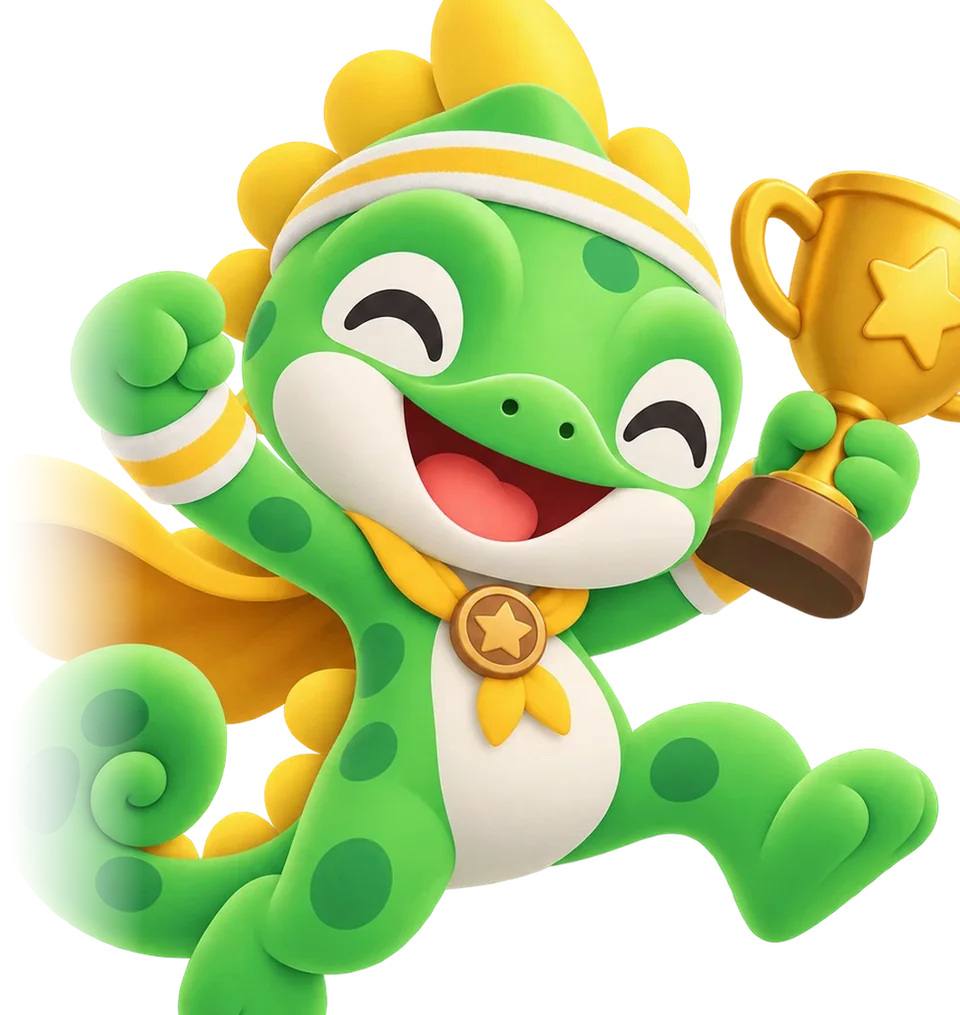
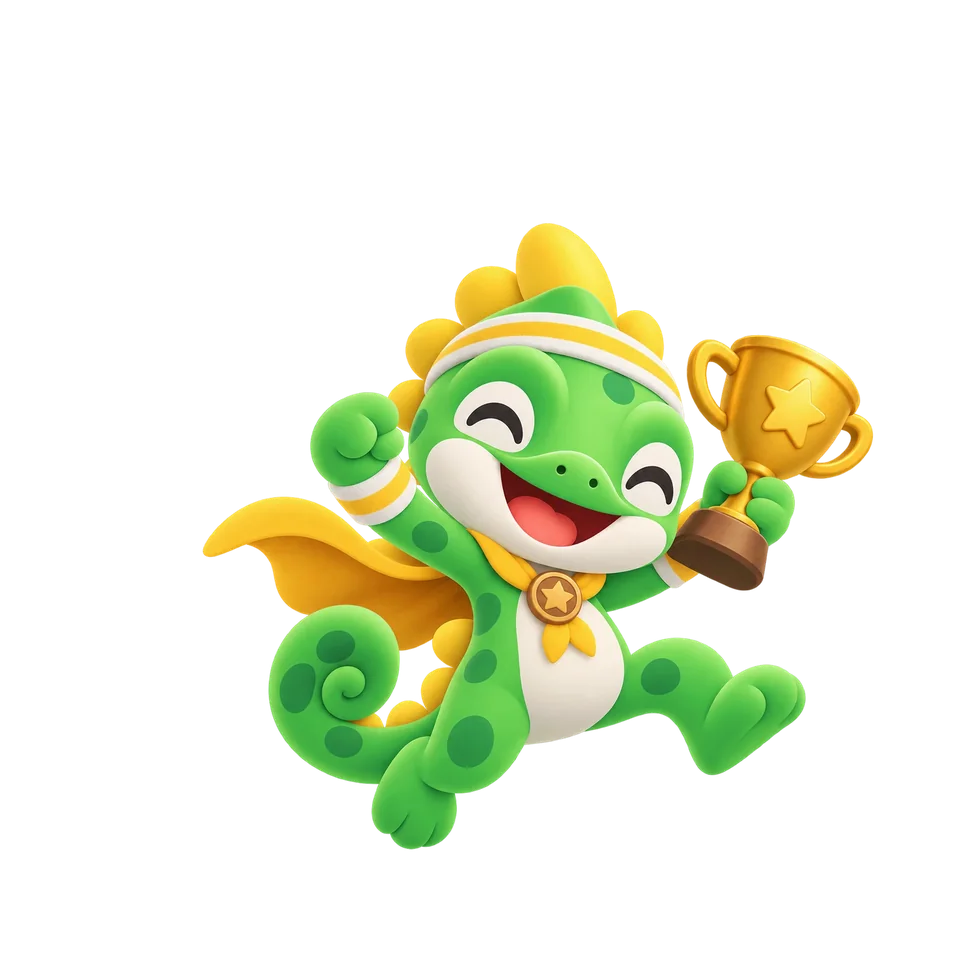
Rang-Maskottchen nach Markierungen: nichts mehr abgeschnitten oder ausgeblendet
- Bilder mit 200 px Luft oben und 250 px links (1389 x 1404): Kamm und Krone
  enden nicht mehr am Bildrand, keine Ausblendung links
- Rahmen reicht 80 px ueber die Karte (die Lupe ist auf der Wallet weg) und
  rechts etwas ueber den Rand: Pokal, Zepter und Hand duerfen herausragen
- Jede Figur so gross wie moeglich, ohne Text und Knoepfe zu ueberdecken;
  Strahlen folgen dem Kopf je Rang
- Universelles Modell fuer die neue Leinwand als eigene Datei (standard),
  die Einfuehrung nutzt weiter die bisherige

diff --git a/public/look.css b/public/look.css
@@ -224,7 +224,8 @@ body.marken-modus #view-wallet { --wk-akzent: var(--marke-k1); }
 /* Das Maskottchen ragt oben ueber die Karte hinaus. Der Rahmen, der beim
    Einklappen beschneidet (.kopf-geld-inner, overflow: hidden), beginnt deshalb
    44px hoeher; die negative Marge hebt das im Layout wieder auf. */
-#kopf-vorne { padding: 44px 14px 26px; margin: -44px -14px -26px; }
+/* Oben 80 px Luft fuer Kamm und Krone (die Lupe ist auf der Wallet weg) */
+#kopf-vorne { padding: 80px 14px 26px; margin: -80px -14px -26px; }
 /* Eingeklappt (Karten & Coupons) bleibt die Polsterung stehen — unsichtbar und
    nicht antippbar, damit nichts darunter blockiert wird */
 #wallet-kopf-geld.zu { pointer-events: none; }
@@ -255,8 +256,10 @@ body.marken-modus #view-wallet { --wk-akzent: var(--marke-k1); }
    Ecken. Unten laeuft die Figur weich aus, statt hart abzubrechen. */
 .wk-sprite-rahmen {
   position: absolute; z-index: 1; pointer-events: none;
-  top: -44px; bottom: 0; left: 0; right: 0;
-  overflow: hidden; border-radius: 0 0 var(--wk-radius) var(--wk-radius);
+  /* oben frei (Kopf ragt heraus), rechts darf etwas ueber den Rand ragen
+     (Pokal, Zepter), unten schneidet die Kartenkante */
+  top: -80px; bottom: 0; left: 0; right: -14px;
+  overflow: hidden; border-radius: 0 0 0 var(--wk-radius);
   -webkit-mask-image: linear-gradient(to bottom, #000 calc(100% - 30px), rgba(0, 0, 0, .35) calc(100% - 6px), rgba(0, 0, 0, .15) 100%);
           mask-image: linear-gradient(to bottom, #000 calc(100% - 30px), rgba(0, 0, 0, .35) calc(100% - 6px), rgba(0, 0, 0, .15) 100%);
 }
@@ -265,9 +268,12 @@ body.marken-modus #view-wallet { --wk-akzent: var(--marke-k1); }
    daneben neben dem Betrag. Unten schneidet die Karte — nur der Oberkoerper
    ist zu sehen. Eigene Modelle je Rang: WALLET_MASKOTTCHEN in app.js. */
 .wk-glas { --sb: var(--sprite-breite, clamp(232px, 62.5vw, 256px)); }
+/* Bild: 1389 x 1404 — die alte Leinwand (1139 x 1204) plus 250 px links und
+   200 px oben, damit nichts am Bildrand endet. Lage je Rang steckt im Bild. */
 .wk-sprite {
-  position: absolute; top: 8px; left: calc(100% - 6px - var(--sb) * .8341);
-  width: var(--sb); height: auto;
+  position: absolute; top: calc(80px - 36px - var(--sb) * .1756);
+  left: calc(100% - 14px - 6px - var(--sb) * 1.0536);
+  width: calc(var(--sb) * 1.2195); height: auto;
   filter: drop-shadow(0 6px 10px rgba(0, 0, 0, .16));
   transform-origin: 55% 100%;
 }
@@ -281,7 +287,7 @@ body.marken-modus #view-wallet { --wk-akzent: var(--marke-k1); }
 }
 .wk-licht::before {
   content: ""; position: absolute;
-  left: calc(100% - 6px - var(--sb) * .268); top: calc(var(--sb) * .369 - 36px);
+  left: calc(100% - 6px - var(--sb) * var(--licht-x, .268)); top: calc(var(--sb) * var(--licht-y, .369) - 36px);
   width: calc(var(--sb) * .98); aspect-ratio: 1;
   transform: translate(-50%, -50%);
   background: repeating-conic-gradient(from 4deg,
@@ -294,7 +300,7 @@ body.marken-modus #view-wallet { --wk-akzent: var(--marke-k1); }
 @keyframes wkStrahlen { to { transform: translate(-50%, -50%) rotate(360deg); } }
 /* Funken wie im Logo: gold, klein, blitzen versetzt auf */
 .wk-funken {
-  position: absolute; top: 8px; left: calc(100% - 6px - var(--sb) * .8341);
+  position: absolute; top: 44px; left: calc(100% - 14px - 6px - var(--sb) * .8341);
   width: var(--sb); aspect-ratio: 1139 / 1204; pointer-events: none;
 }
 .wk-f {

diff --git a/public/app.js b/public/app.js
@@ -8996,25 +8996,28 @@ function voucherCardHtml(v, { mehr = false } = {}) {
 //   sammler: '/brand/kumulio-maskottchen-sammler',
 //   (profi, champion, meister, legende, mythos)
 const WALLET_MASKOTTCHEN = {
-  standard: '/brand/kumulio-maskottchen-wallet',
-  // Modelle des Nutzers je Rang (Runde 119), an den Augen auf die Lage des
-  // universellen Modells ausgerichtet — Strahlen und Funken passen so zu allen
-  scout: '/brand/kumulio-maskottchen-scout',
-  sammler: '/brand/kumulio-maskottchen-sammler',
-  profi: '/brand/kumulio-maskottchen-profi',
-  champion: '/brand/kumulio-maskottchen-champion',
-  meister: '/brand/kumulio-maskottchen-meister',
-  legende: '/brand/kumulio-maskottchen-legende',
-  mythos: '/brand/kumulio-maskottchen-mythos',
+  standard: { basis: '/brand/kumulio-maskottchen-standard', licht: [.268, .369] },
+  // Modelle des Nutzers je Rang. Lage und Groesse stecken im Bild (1389 x 1404,
+  // siehe look.css .wk-sprite); licht = Mitte der Strahlen hinter dem Kopf
+  scout: { basis: '/brand/kumulio-maskottchen-scout', licht: [0.2915, 0.3775] },
+  sammler: { basis: '/brand/kumulio-maskottchen-sammler', licht: [0.2836, 0.3775] },
+  profi: { basis: '/brand/kumulio-maskottchen-profi', licht: [0.2959, 0.3775] },
+  champion: { basis: '/brand/kumulio-maskottchen-champion', licht: [0.353, 0.3775] },
+  meister: { basis: '/brand/kumulio-maskottchen-meister', licht: [0.2186, 0.3775] },
+  legende: { basis: '/brand/kumulio-maskottchen-legende', licht: [0.2248, 0.3775] },
+  mythos: { basis: '/brand/kumulio-maskottchen-mythos', licht: [0.3117, 0.3775] },
 };
 function setzeWalletMaskottchen(slug) {
   const img = $('.wk-sprite');
   if (!img) return;
-  const basis = WALLET_MASKOTTCHEN[slug] || WALLET_MASKOTTCHEN.standard;
-  if (img.dataset.basis === basis) return;
-  img.dataset.basis = basis;
-  img.srcset = `${basis}-480.webp 480w, ${basis}-960.webp 960w`;
-  img.src = `${basis}-480.webp`;
+  const e = WALLET_MASKOTTCHEN[slug] || WALLET_MASKOTTCHEN.standard;
+  const glas = img.closest('.wk-glas');
+  glas?.style.setProperty('--licht-x', e.licht[0]);
+  glas?.style.setProperty('--licht-y', e.licht[1]);
+  if (img.dataset.basis === e.basis) return;
+  img.dataset.basis = e.basis;
+  img.srcset = `${e.basis}-480.webp 480w, ${e.basis}-960.webp 960w`;
+  img.src = `${e.basis}-480.webp`;
 }
 
 // "…" an der Karte: Code/PIN kopieren, Abbuchen, Verschenken, Details — der

diff --git a/public/index.html b/public/index.html
@@ -442,7 +442,7 @@
             <div class="wk-glas">
             <span class="wk-licht" aria-hidden="true"></span>
             <span class="wk-titel">Deine Wallet</span>
-            <span class="wk-sprite-rahmen" aria-hidden="true"><img class="wk-sprite" src="/brand/kumulio-maskottchen-wallet-480.webp" srcset="/brand/kumulio-maskottchen-wallet-480.webp 480w, /brand/kumulio-maskottchen-wallet-960.webp 960w" sizes="256px" width="242" height="256" data-basis="/brand/kumulio-maskottchen-wallet" alt="" decoding="async" draggable="false"><span class="wk-funken"><svg class="wk-f wk-f1" viewBox="-1.2 -1.2 2.4 2.4"><path d="M0-1Q.13-.13 1 0Q.13 .13 0 1Q-.13 .13-1 0Q-.13-.13 0-1Z"/></svg><svg class="wk-f wk-f2" viewBox="-1.2 -1.2 2.4 2.4"><path d="M0-1Q.13-.13 1 0Q.13 .13 0 1Q-.13 .13-1 0Q-.13-.13 0-1Z"/></svg><svg class="wk-f wk-f3" viewBox="-1.2 -1.2 2.4 2.4"><path d="M0-1Q.13-.13 1 0Q.13 .13 0 1Q-.13 .13-1 0Q-.13-.13 0-1Z"/></svg></span></span>
+            <span class="wk-sprite-rahmen" aria-hidden="true"><img class="wk-sprite" src="/brand/kumulio-maskottchen-standard-480.webp" srcset="/brand/kumulio-maskottchen-standard-480.webp 480w, /brand/kumulio-maskottchen-standard-960.webp 960w" sizes="312px" width="295" height="298" data-basis="/brand/kumulio-maskottchen-standard" alt="" decoding="async" draggable="false"><span class="wk-funken"><svg class="wk-f wk-f1" viewBox="-1.2 -1.2 2.4 2.4"><path d="M0-1Q.13-.13 1 0Q.13 .13 0 1Q-.13 .13-1 0Q-.13-.13 0-1Z"/></svg><svg class="wk-f wk-f2" viewBox="-1.2 -1.2 2.4 2.4"><path d="M0-1Q.13-.13 1 0Q.13 .13 0 1Q-.13 .13-1 0Q-.13-.13 0-1Z"/></svg><svg class="wk-f wk-f3" viewBox="-1.2 -1.2 2.4 2.4"><path d="M0-1Q.13-.13 1 0Q.13 .13 0 1Q-.13 .13-1 0Q-.13-.13 0-1Z"/></svg></span></span>
             <button class="balance-flip-btn" id="balance-flip">
               <div class="balance-big" id="wallet-total">0,00 €</div>
               <div class="wallet-kopf-sub">
